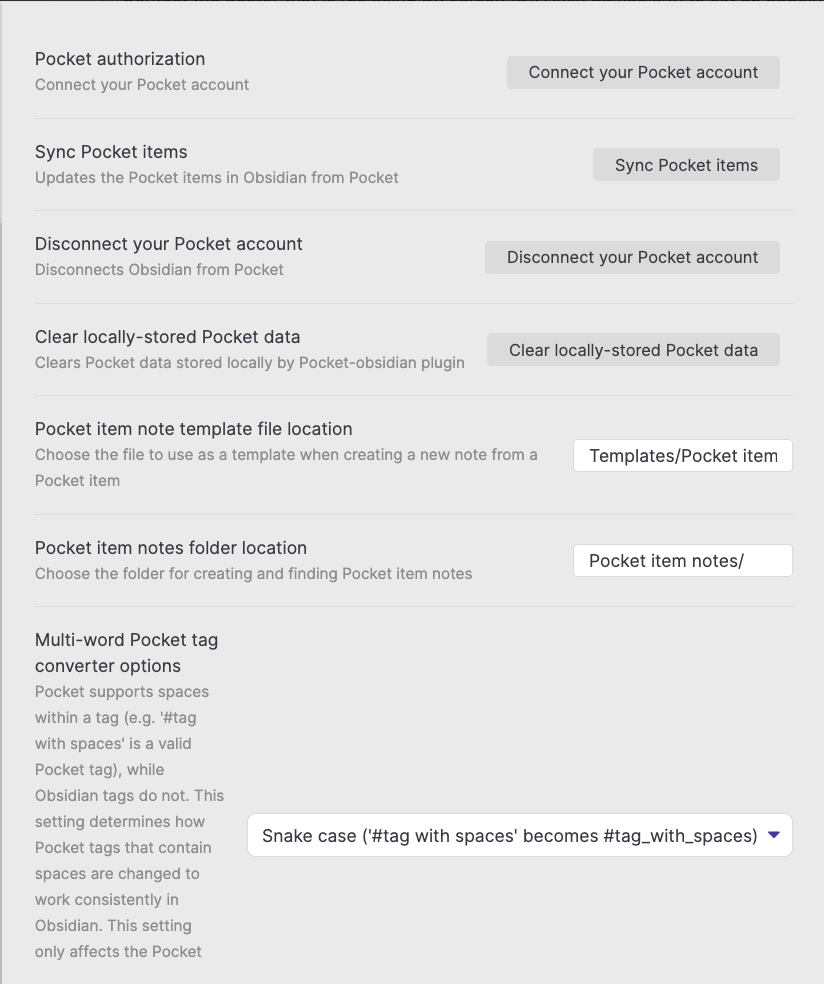
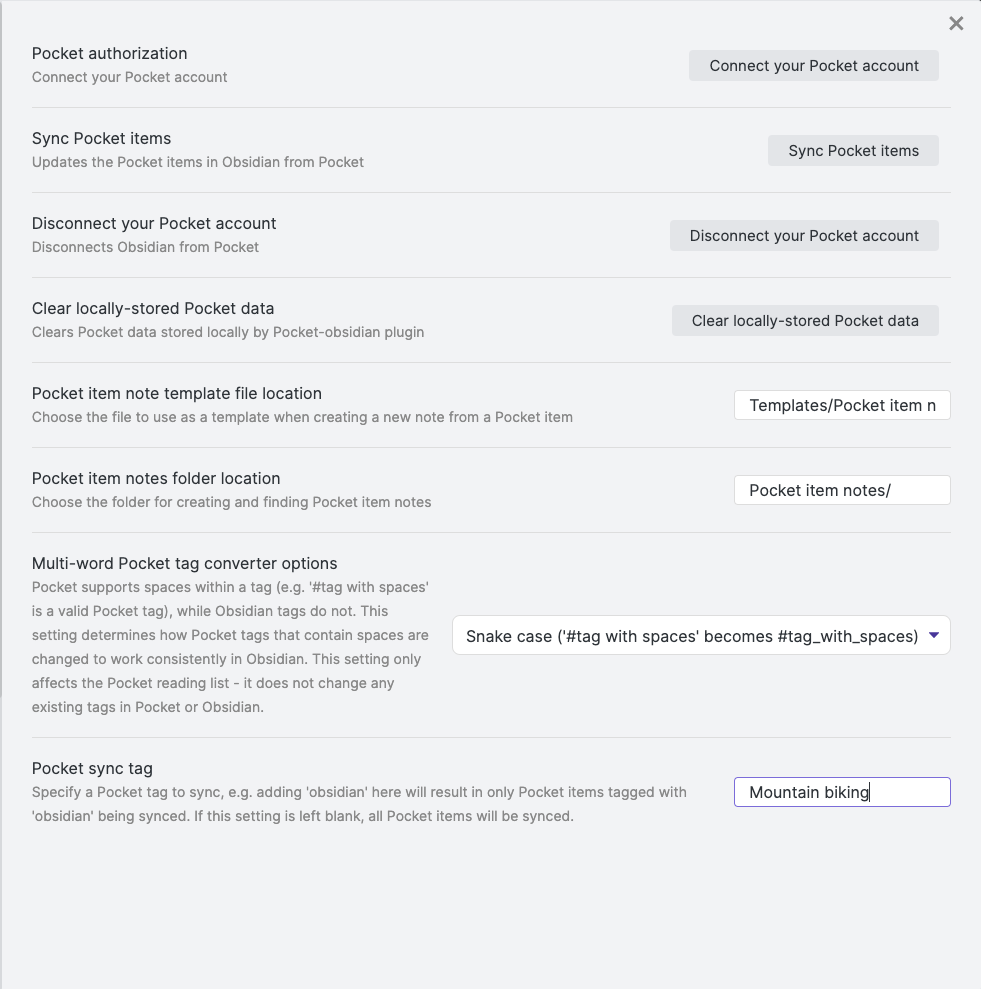
Adding support for syncing a particular Pocket tag only (#68)

diff --git a/src/ui/settings.ts b/src/ui/settings.ts
@@ -158,6 +158,27 @@ const addMultiWordTagConverterSetting = (
     });
 };
 
+const SYNC_TAG_CTA = "Pocket sync tag";
+const SYNC_TAG_DESC = `Specify a Pocket tag to sync, e.g. adding 'obsidian' here
+will result in only Pocket items tagged with 'obsidian' being synced. If this
+setting is left blank, all Pocket items will be synced.`;
+
+const addPocketSyncTagSetting = (
+  settingsManager: SettingsManager,
+  containerEl: HTMLElement
+) => {
+  new Setting(containerEl)
+    .setName(SYNC_TAG_CTA)
+    .setDesc(SYNC_TAG_DESC)
+    .addText((text) => {
+      text.setPlaceholder("Specify a tag to limit syncs");
+      text.setValue(settingsManager.getSetting("pocket-sync-tag"));
+      text.onChange(async (newValue) => {
+        await settingsManager.updateSetting("pocket-sync-tag", newValue);
+      });
+    });
+};
+
 export class PocketSettingTab extends PluginSettingTab {
   plugin: PocketSync;
   settingsManager: SettingsManager;
@@ -178,5 +199,6 @@ export class PocketSettingTab extends PluginSettingTab {
     addItemNoteTemplateSetting(this.settingsManager, containerEl);
     addItemNotesLocationSetting(this.settingsManager, containerEl);
     addMultiWordTagConverterSetting(this.settingsManager, containerEl);
+    addPocketSyncTagSetting(this.settingsManager, containerEl);
   }
 }

diff --git a/src/pocket_api/PocketAPI.ts b/src/pocket_api/PocketAPI.ts
@@ -53,7 +53,8 @@ export type GetRequestToken = (
 export type GetAccessToken = () => Promise<AccessTokenResponse>;
 export type GetPocketItems = (
   accessToken: AccessToken,
-  lastUpdateTimestamp?: UpdateTimestamp
+  lastUpdateTimestamp?: UpdateTimestamp,
+  pocketSyncTag?: string
 ) => Promise<TimestampedPocketGetItemsResponse>;
 
 export interface PocketAPI {
@@ -120,7 +121,8 @@ export type TimestampedPocketGetItemsResponse = {
 
 export const getPocketItems: GetPocketItems = async (
   accessToken,
-  lastUpdateTimestamp?
+  lastUpdateTimestamp?,
+  pocketSyncTag?
 ) => {
   const GET_ITEMS_URL = "https://getpocket.com/v3/get";
   const nextTimestamp = Math.floor(Date.now() / 1000);
@@ -132,6 +134,7 @@ export const getPocketItems: GetPocketItems = async (
       ? new Number(lastUpdateTimestamp).toString()
       : null,
     detailType: "complete",
+    tag: pocketSyncTag,
   };
 
   if (!!lastUpdateTimestamp) {

diff --git a/src/data/PocketSync.ts b/src/data/PocketSync.ts
@@ -6,7 +6,8 @@ import { PocketItemStore } from "./PocketItemStore";
 export const doPocketSync = async (
   itemStore: PocketItemStore,
   pocketAPI: PocketAPI,
-  accessInfo: AccessInfo
+  accessInfo: AccessInfo,
+  pocketSyncTag?: string
 ) => {
   const lastUpdateTimestamp = await itemStore.getLastUpdateTimestamp();
 
@@ -14,7 +15,8 @@ export const doPocketSync = async (
 
   const getPocketItemsResponse = await pocketAPI.getPocketItems(
     accessInfo.accessToken,
-    lastUpdateTimestamp
+    lastUpdateTimestamp,
+    pocketSyncTag
   );
 
   new Notice(

diff --git a/src/SettingsManager.ts b/src/SettingsManager.ts
@@ -1,5 +1,4 @@
 import update from "immutability-helper";
-import log from "loglevel";
 import { MultiWordTagConversion } from "./Tags";
 import { CallbackId, CallbackRegistry } from "./Types";
 import { getUniqueId } from "./utils";
@@ -8,6 +7,7 @@ export interface PocketSettings {
   "item-note-template"?: string;
   "item-notes-folder"?: string;
   "multi-word-tag-converter"?: MultiWordTagConversion;
+  "pocket-sync-tag"?: string;
 }
 
 const DEFAULT_POCKET_SETTINGS: PocketSettings = {

diff --git a/src/main.ts b/src/main.ts
@@ -48,7 +48,13 @@ export default class PocketSync extends Plugin {
       return;
     }
 
-    this.pendingSync = doPocketSync(this.itemStore, this.pocketAPI, accessInfo);
+    const pocketSyncTag = this.settingsManager.getSetting("pocket-sync-tag");
+    this.pendingSync = doPocketSync(
+      this.itemStore,
+      this.pocketAPI,
+      accessInfo,
+      pocketSyncTag
+    );
     try {
       await this.pendingSync;
     } finally {

diff --git a/README.md b/README.md
@@ -34,6 +34,11 @@ within Obsidian.
 
 You can also sync your Pocket items using an Obsidian command: "Sync Pocket list".
 
+You can either sync all Pocket items or just Pocket items with a particular tag
+that you specify, using the "Pocket sync tag" setting. Leave it blank to sync
+all Pocket items, or specify a Pocket tag to limit your sync to just Pocket
+items with that tag.
+
 ### Opening and using the Pocket list
 
 Once the Pocket list is downloaded and stored, open the command palette and
